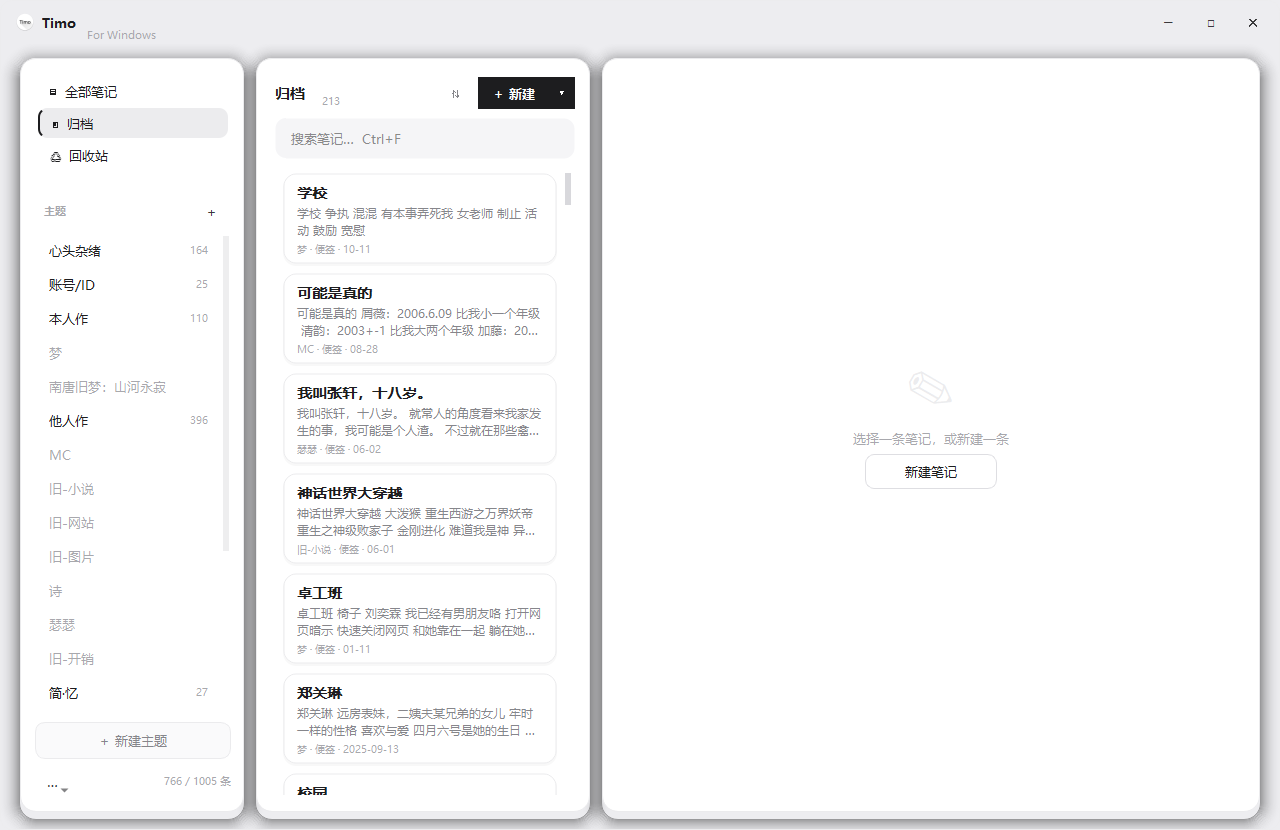
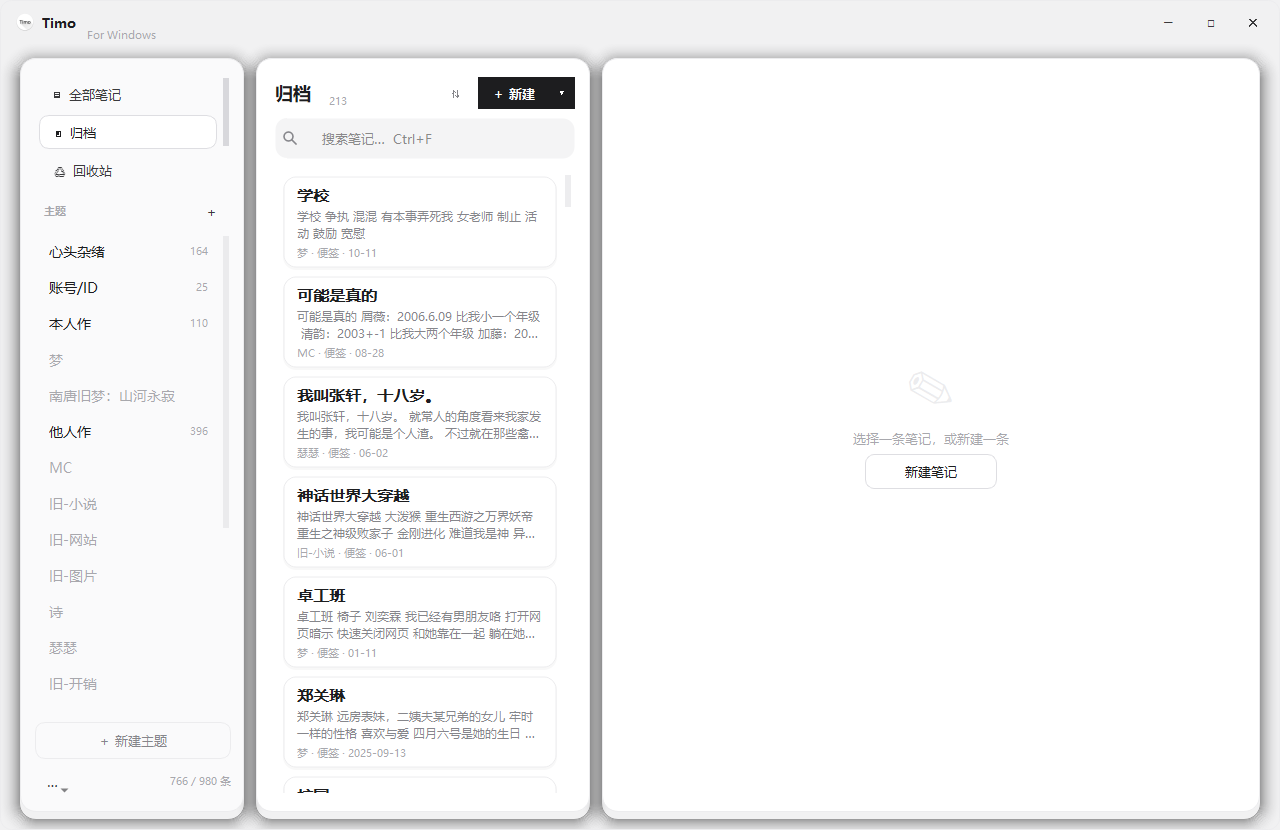
界面：向 Pogget 风格靠拢（浅灰侧栏、白胶囊选中、字号放大、搜索框图标）

diff --git a/timodesk/ui/theme.py b/timodesk/ui/theme.py
@@ -9,12 +9,12 @@ from __future__ import annotations
 
 C = {
     # 画布与卡片
-    "canvas": "#ededf0",
+    "canvas": "#f1f1f2",
     "paper": "#ffffff",
     "paper_alt": "#fafafb",
     "card": "#ffffff",
     "card_hover": "#f8f8fa",
-    "card_border": "#ebebed",
+    "card_border": "#ececee",
     "card_border_strong": "#dedee2",
     # 文字
     "ink": "#1d1d1f",
@@ -98,7 +98,12 @@ QWidget {{
 QMainWindow, #Root, #Body {{ background: {C['canvas']}; }}
 
 /* ---------- 卡片容器 ---------- */
-#Sidebar, #ListPane, #EditorPane {{
+#Sidebar {{
+    background: #fafafb;
+    border: 1px solid {C['card_border']};
+    border-radius: 16px;
+}}
+#ListPane, #EditorPane {{
     background: {C['card']};
     border: 1px solid {C['card_border']};
     border-radius: 16px;
@@ -121,14 +126,15 @@ QMainWindow, #Root, #Body {{ background: {C['canvas']}; }}
 #NewTopicBtn:hover {{ border-color: {C['card_border_strong']}; color: {C['ink']}; background: #f2f2f5; }}
 
 QListWidget#TopicList, QListWidget#NavList {{
-    background: {C['card']}; border: none;
+    background: transparent; border: none;
 }}
 QListWidget#NavList::item {{
-    border-radius: 9px; padding: 8px 9px; margin: 1px 3px;
+    border-radius: 10px; padding: 10px 12px; margin: 2px 4px;
+    color: {C['ink_soft']};
 }}
 QListWidget#NavList::item:selected {{
-    background: #ececee; color: {C['ink']};
-    border-left: 2px solid {C['ink']};
+    background: {C['card']}; color: {C['ink']};
+    border: 1px solid {C['card_border_strong']};
 }}
 QListWidget#NavList::item:hover {{
     background: {C['card_hover']};
@@ -140,12 +146,12 @@ QListWidget#Wall::item:hover {{ background: #f4f4f6; }}
 QListWidget#Wall::item:selected {{ background: #eaeaec; }}
 
 /* ---------- 中栏 ---------- */
-#ListHeader {{ font-size: {int(15 * s)}px; font-weight: 600; color: {C['ink']}; }}
+#ListHeader {{ font-size: {int(18 * s)}px; font-weight: 600; color: {C['ink']}; letter-spacing: 0.2px; }}
 #CountLabel {{ color: {C['faint']}; font-size: {int(11 * s)}px; }}
 
 QLineEdit#Search {{
-    background: #f5f5f7; border: 1px solid transparent; border-radius: 11px;
-    padding: 9px 13px; selection-background-color: {C['ink']}; selection-color: #fff;
+    background: #f4f4f5; border: 1px solid transparent; border-radius: 12px;
+    padding: 9px 14px; selection-background-color: {C['ink']}; selection-color: #fff;
 }}
 QLineEdit#Search:focus {{ background: {C['card']}; border: 1px solid {C['ink']}; }}
 
@@ -160,7 +166,7 @@ QFrame#FindBar QToolButton:hover {{ background: #efeff1; color: {C['ink']}; }}
 #FindCount {{ color: {C['muted']}; font-size: {int(11 * s)}px; }}
 
 #ListEmpty {{ color: {C['faint']}; font-size: {int(12 * s)}px; line-height:1.6; }}
-QListWidget#NoteList {{ background: {C['card']}; border: none; padding: 2px; }}
+QListWidget#NoteList {{ background: {C['card']}; border: none; padding: 4px 2px; }}
 QListWidget#NoteList::item {{ border: none; margin: 0px; }}
 
 QPushButton#NewNoteBtn {{
@@ -196,7 +202,7 @@ QToolButton#NewTypeBtn::menu-indicator {{ image: none; width: 0px; }}
 
 QLineEdit#NoteTitle {{
     background: transparent; border: none; padding: 2px 0;
-    font-family: {FONT_TEXT}; font-size: {int(22 * s)}px; font-weight: 500; color: {C['ink']};
+    font-family: {FONT_TEXT}; font-size: {int(24 * s)}px; font-weight: 500; color: {C['ink']};
 }}
 QLineEdit#NoteTitle::placeholder {{ color: {C['faint']}; }}
 QLineEdit#NoteTitle:focus {{ border-bottom: 1px solid {C['card_border']}; }}

diff --git a/timodesk/ui/widgets.py b/timodesk/ui/widgets.py
@@ -78,7 +78,7 @@ class NoteCardDelegate(QStyledItemDelegate):
         painter.setRenderHint(QPainter.Antialiasing, True)
         painter.fillRect(option.rect, QColor(C["card"]))
 
-        r = option.rect.adjusted(7, 4, -7, -7)
+        r = option.rect.adjusted(7, 5, -7, -5)
         selected = bool(option.state & QStyle.State_Selected)
         hovered = bool(option.state & QStyle.State_MouseOver)
 
@@ -93,9 +93,9 @@ class NoteCardDelegate(QStyledItemDelegate):
         )
 
         if selected:
-            bg, border = QColor("#e9e9ec"), QColor("#c3c3ca")
+            bg, border = QColor("#f4f4f6"), QColor("#dedee2")
         elif hovered:
-            bg, border = QColor("#fbfbfc"), QColor("#dcdce1")
+            bg, border = QColor("#fbfbfc"), QColor("#eaeaed")
         else:
             bg, border = QColor(C["card"]), QColor(C["card_border"])
         painter.setBrush(bg)
@@ -115,7 +115,7 @@ class NoteCardDelegate(QStyledItemDelegate):
         title = note.display_title(content)
 
         f_title = QFont(option.font)
-        f_title.setPixelSize(14)
+        f_title.setPixelSize(15)
         f_title.setWeight(QFont.DemiBold)
         painter.setFont(f_title)
         painter.setPen(QColor(C["ink"]))
@@ -152,7 +152,7 @@ class NoteCardDelegate(QStyledItemDelegate):
 
         painter.setPen(QColor(C["faint"]))
         f_meta = QFont(option.font)
-        f_meta.setPixelSize(10)
+        f_meta.setPixelSize(11)
         painter.setFont(f_meta)
         fm_meta = QFontMetrics(f_meta)
         meta = f"{_TYPE_MARK.get(note.type, '')} · {human_time(note.updated_at or note.created_at)}"
@@ -197,7 +197,7 @@ class TopicDelegate(QStyledItemDelegate):
         self.lib = lib
 
     def sizeHint(self, option, index) -> QSize:
-        return QSize(180, 34)
+        return QSize(180, 36)
 
     def paint(self, painter: QPainter, option, index):
         topic = index.data(Qt.UserRole)
@@ -205,14 +205,18 @@ class TopicDelegate(QStyledItemDelegate):
             return
         painter.save()
         painter.setRenderHint(QPainter.Antialiasing, True)
-        painter.fillRect(option.rect, QColor(C["card"]))
-        r = option.rect.adjusted(4, 1, -6, -1)
+        painter.fillRect(option.rect, QColor("#fafafb"))
+        r = option.rect.adjusted(4, 2, -6, -2)
         selected = bool(option.state & QStyle.State_Selected)
         hovered = bool(option.state & QStyle.State_MouseOver)
-        if selected or hovered:
+        if selected:
+            painter.setPen(QPen(QColor("#e6e6e9"), 1))
+            painter.setBrush(QColor("#ffffff"))
+            painter.drawRoundedRect(r, 10, 10)
+        elif hovered:
             painter.setPen(Qt.NoPen)
-            painter.setBrush(QColor(C["green_soft"] if selected else C["card"]))
-            painter.drawRoundedRect(r, 8, 8)
+            painter.setBrush(QColor("#f2f2f4"))
+            painter.drawRoundedRect(r, 10, 10)
         if selected:
             painter.setPen(Qt.NoPen)
             painter.setBrush(QColor(C["ink"]))
@@ -222,7 +226,7 @@ class TopicDelegate(QStyledItemDelegate):
 
         archived = getattr(topic, "state", "active") == "archived"
         name_font = QFont(option.font)
-        name_font.setPixelSize(13)
+        name_font.setPixelSize(14)
         name_font.setWeight(QFont.DemiBold if selected else QFont.Normal)
         painter.setFont(name_font)
         painter.setPen(QColor(C["green_dark"] if selected else (C["faint"] if archived else C["ink"])))

diff --git a/timodesk/ui/main_window.py b/timodesk/ui/main_window.py
@@ -103,6 +103,21 @@ class ImportCanceled(Exception):
     """用户在导入进度条上点了取消。"""
 
 
+def _search_icon():
+    """放大镜：1.6px 线条，跟着 muted 色走。"""
+    from PyQt5.QtGui import QColor, QIcon, QPainter, QPen, QPixmap
+
+    pm = QPixmap(16, 16)
+    pm.fill(Qt.transparent)
+    p = QPainter(pm)
+    p.setRenderHint(QPainter.Antialiasing, True)
+    p.setPen(QPen(QColor(C["muted"]), 1.6))
+    p.drawEllipse(2, 2, 9, 9)
+    p.drawLine(10, 10, 14, 14)
+    p.end()
+    return QIcon(pm)
+
+
 class MainWindow(QMainWindow):
     def __init__(self, lib: Library, parent=None):
         super().__init__(parent)
@@ -170,7 +185,7 @@ class MainWindow(QMainWindow):
         for key, label, icon in (("all", "全部笔记", "▤"), ("archived", "归档", "▣"), ("trash", "回收站", "♲")):
             it = QListWidgetItem(f"{icon}  {label}")
             it.setData(Qt.UserRole, key)
-            it.setSizeHint(QSize(0, 32))
+            it.setSizeHint(QSize(0, 38))
             self.nav.addItem(it)
         self.nav.currentRowChanged.connect(self._on_nav_changed)
         sb.addWidget(self.nav)
@@ -281,6 +296,8 @@ class MainWindow(QMainWindow):
 
         self.search = QLineEdit(objectName="Search")
         self.search.setPlaceholderText("搜索笔记…  Ctrl+F")
+        self.search.addAction(_search_icon(), QLineEdit.LeadingPosition)
+        self.search.setTextMargins(4, 0, 0, 0)
         self.search.setClearButtonEnabled(True)
         self.search.textChanged.connect(self._on_search_changed)
         lp.addWidget(self.search)

diff --git a/tools/shot-docs.py b/tools/shot-docs.py
@@ -33,8 +33,10 @@ def archived():
 
 
 QTimer.singleShot(500, pick)
+QTimer.singleShot(900, w.note_list.scrollToTop)
 QTimer.singleShot(1500, lambda: w.grab().save("docs/screenshot-main.png"))
 QTimer.singleShot(1700, archived)
+QTimer.singleShot(2100, w.note_list.scrollToTop)
 QTimer.singleShot(2600, lambda: w.grab().save("docs/screenshot-archived.png"))
 QTimer.singleShot(2800, app.quit)
 app.exec_()

diff --git a/PENDING-CHANGES.md b/PENDING-CHANGES.md
@@ -59,3 +59,13 @@
 - 账号类笔记里的账号/密码字段照旧保留（那是笔记内容）。
 - 顺带清理了 `pyflakes` 报出的几处未用导入与一处 f-string 前缀。
 - 测试：26 个脚本全绿（原 `test_lock.py` 已删除）。
+
+## 2026-11-06 — 界面向 Pogget 风格靠拢（仍黑白灰）
+
+- 侧栏从「白色卡片」改为浅灰 `#fafafb`，导航项与主题项改用**白胶囊选中**（1px 边 + 10px 圆角），去掉原来的左侧黑色指示条。
+- 字号放大一档：中栏标题 15→18px、笔记卡片标题 14→15px、正文 12px、meta 11px、编辑器标题 22→24px。
+- 笔记卡片：高度 100px、圆角 14、边框 `#ececee`、阴影更淡；列表内边距调整后卡片间距更均匀。
+- 搜索框：高度降一档、加**自绘放大镜图标**（`_search_icon()`，1.6px 线条）。
+- 画布色 `#ededf0 → #f1f1f2`，面板边框更淡；`QListWidget#NavList/#TopicList` 背景透明，让侧栏底色透出来。
+- 截图重新生成（`docs/screenshot-main.png`、`docs/screenshot-archived.png`），`tools/shot-docs.py` 增加了截图前 `scrollToTop()`。
+- 测试：UI 相关 6 个脚本全通过（ui 20、hl 8、window 7、sort 9、view_restore 7、core 13）。
